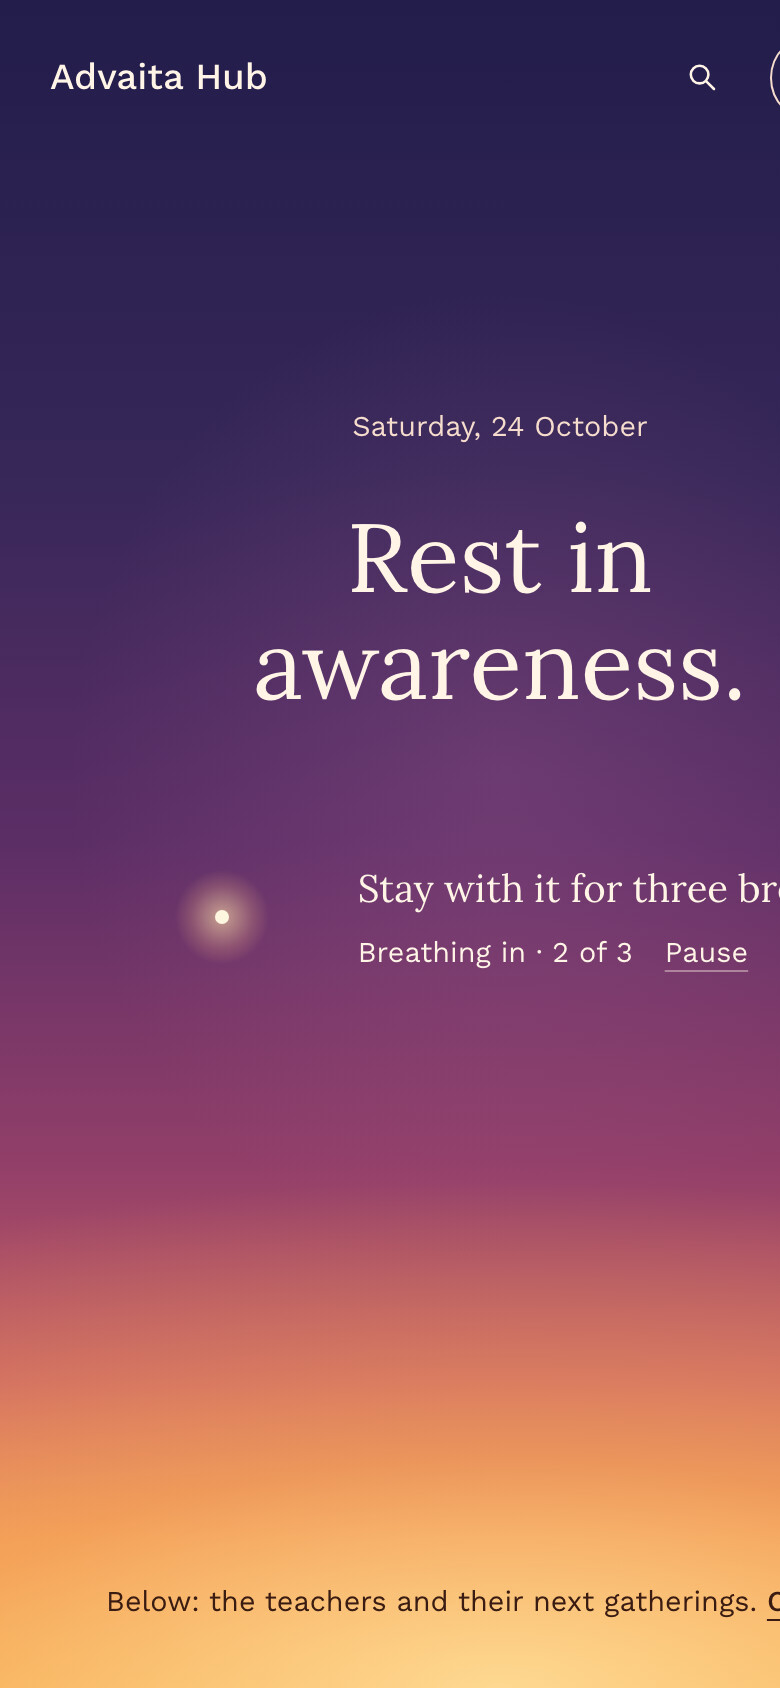
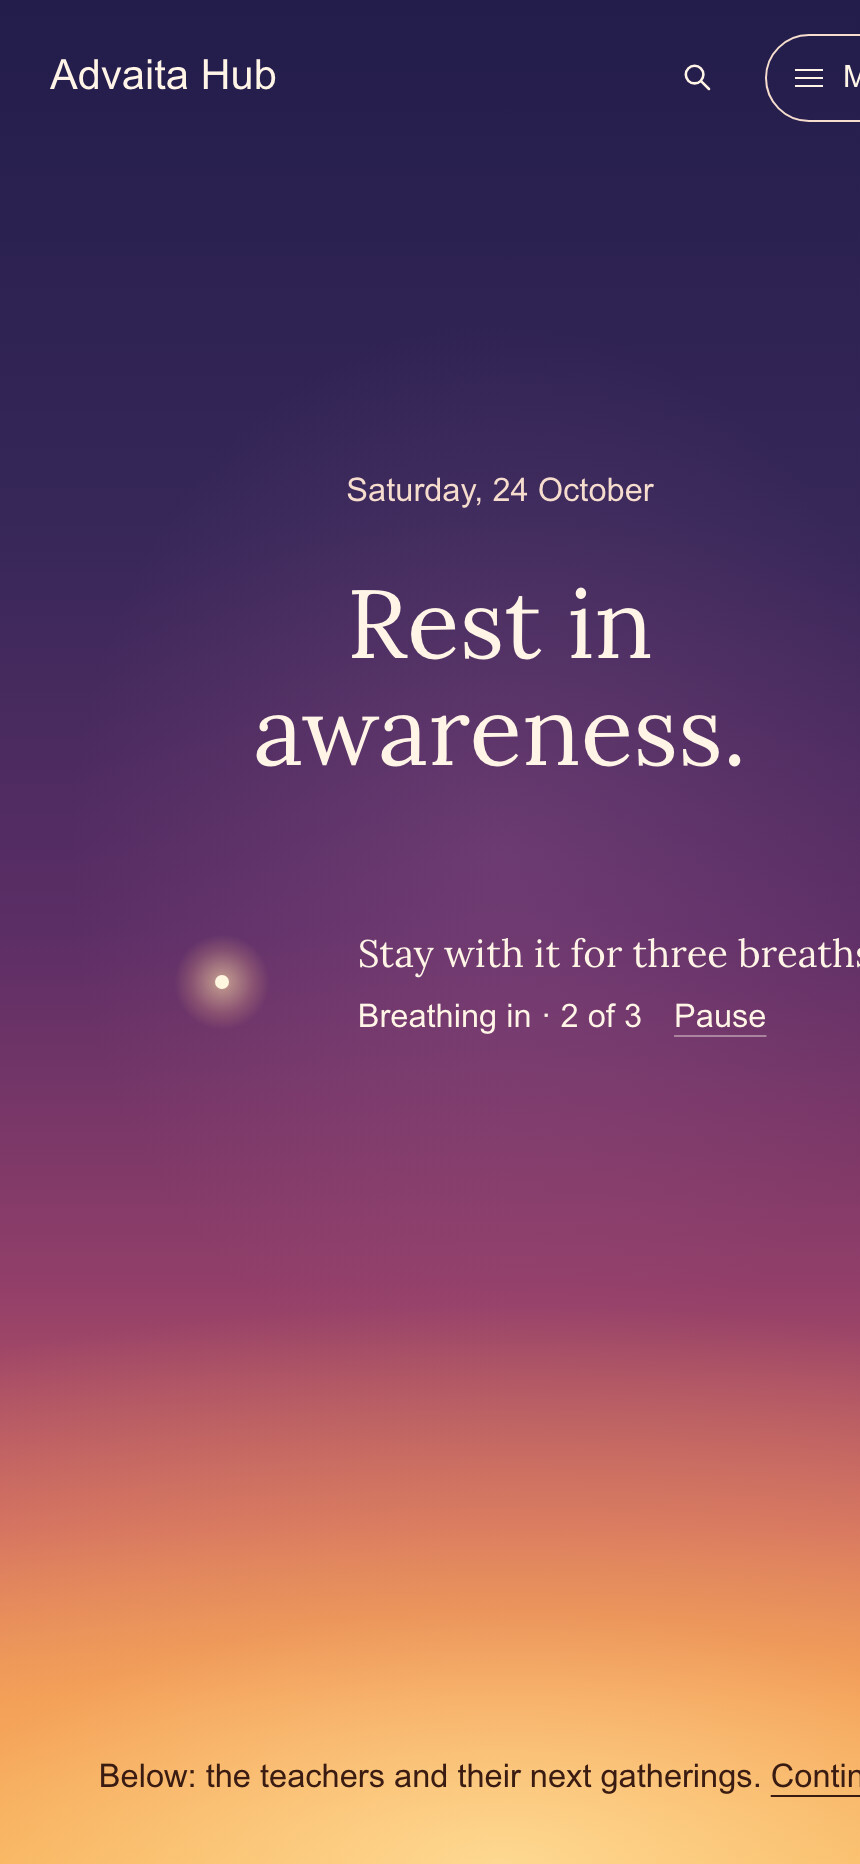
MKT-4: Meera text about the redesign only, phone views shot at 430 px and shown whole

diff --git a/docs/marketing/MKT-4-site-cards.html b/docs/marketing/MKT-4-site-cards.html
@@ -21,14 +21,14 @@ body { width: 1080px; height: 1350px; overflow: hidden; position: relative; }
 .browser .bar { height: 40px; background: var(--frame-edge); display: flex; align-items: center; gap: 10px; padding: 0 18px; }
 .browser .bar i { width: 13px; height: 13px; border-radius: 50%; background: #6b645a; display: block; }
 .browser img { display: block; width: 100%; }
-.phone { position: absolute; right: 48px; top: 760px; width: 300px; background: var(--frame); border: 4px solid var(--frame-edge); border-radius: 44px; padding: 12px; box-shadow: var(--shadow); }
-.phone img { display: block; width: 100%; border-radius: 30px; aspect-ratio: 390 / 740; object-fit: cover; object-position: top; }
+.phone { position: absolute; right: 48px; top: 700px; width: 270px; background: var(--frame); border: 4px solid var(--frame-edge); border-radius: 44px; padding: 12px; box-shadow: var(--shadow); }
+.phone img { display: block; width: 100%; border-radius: 30px; }
 </style>
 </head>
 <body>
 <script>
 const CARDS = {
-  meera: { title: "Mother Meera", sub: "Booking, redesigned", message: "The booking site for darshans and meditations has a new design: events by location, a clear calendar, booking on any device.", link: "booking.mothermeera.com", desktop: "sites/meera-desktop.jpg", mobile: "sites/meera-mobile.jpg" },
+  meera: { title: "Mother Meera", sub: "Booking, redesigned", message: "The booking site for darshans and meditations has a new design: calmer, friendlier, the same booking underneath.", link: "booking.mothermeera.com", desktop: "sites/meera-desktop.jpg", mobile: "sites/meera-mobile.jpg" },
   advaita: { title: "Advaita Hub", sub: "Now online", message: "An independent, bilingual catalogue of teachers of non-dual paths. Every statement in a profile links to its source.", link: "advaitahub.org", desktop: "sites/advaita-desktop.jpg", mobile: "sites/advaita-mobile.jpg" }
 };
 const c = CARDS[new URLSearchParams(location.search).get("c")] || CARDS.meera;

diff --git a/docs/MKT-3-editorial-plan.md b/docs/MKT-3-editorial-plan.md
@@ -26,7 +26,7 @@ Four weeks after the Instagram start of @tearoom.one (24 October 2026). Companio
 | Date | Channel | What | Image | Text | Who |
 |---|---|---|---|---|---|
 | Sat 31 | Reddit r/androidapps | Self Promo Saturday comment (MKT-1, section 3) | `square/square-1-en.jpg` | text from MKT-1 | Phone/Mac |
-| Mon 2 Nov | Instagram feed | Mother Meera: the redesigned booking site | `share/sites/meera-portrait.jpg` (MKT-4) | "A different kind of project: I reworked the booking site for Mother Meera's darshans and meditations. Events by location, a clear calendar, booking on any device. booking.mothermeera.com #webdesign #booking #java" | Suite |
+| Mon 2 Nov | Instagram feed | Mother Meera: the redesigned booking site | `share/sites/meera-portrait.jpg` (MKT-4) | "A different kind of project: the booking site for Mother Meera's darshans and meditations has a new design, live since a few weeks. Calmer and friendlier, the same booking underneath. booking.mothermeera.com #webdesign #redesign" | Suite |
 | Wed 4 Nov | Instagram reel | The live wallpaper turning, one quiet line at the end | from the recording of 30 October | Caption: "Dahlia's live wallpaper, turning slowly all day. Free on Android, link in bio. #livewallpaper #mandala #androidapp" | Suite |
 | Thu 5 Nov | Reddit r/fossdroid | Link post to the repository, first comment from MKT-1 | | | Phone/Mac |
 | Sat 7 Nov | Reddit r/AndroidWallpaper | Image post, OC, title names the style (MKT-1) | to build: 1080×2160 render from a starter favourite | | Phone/Mac |
